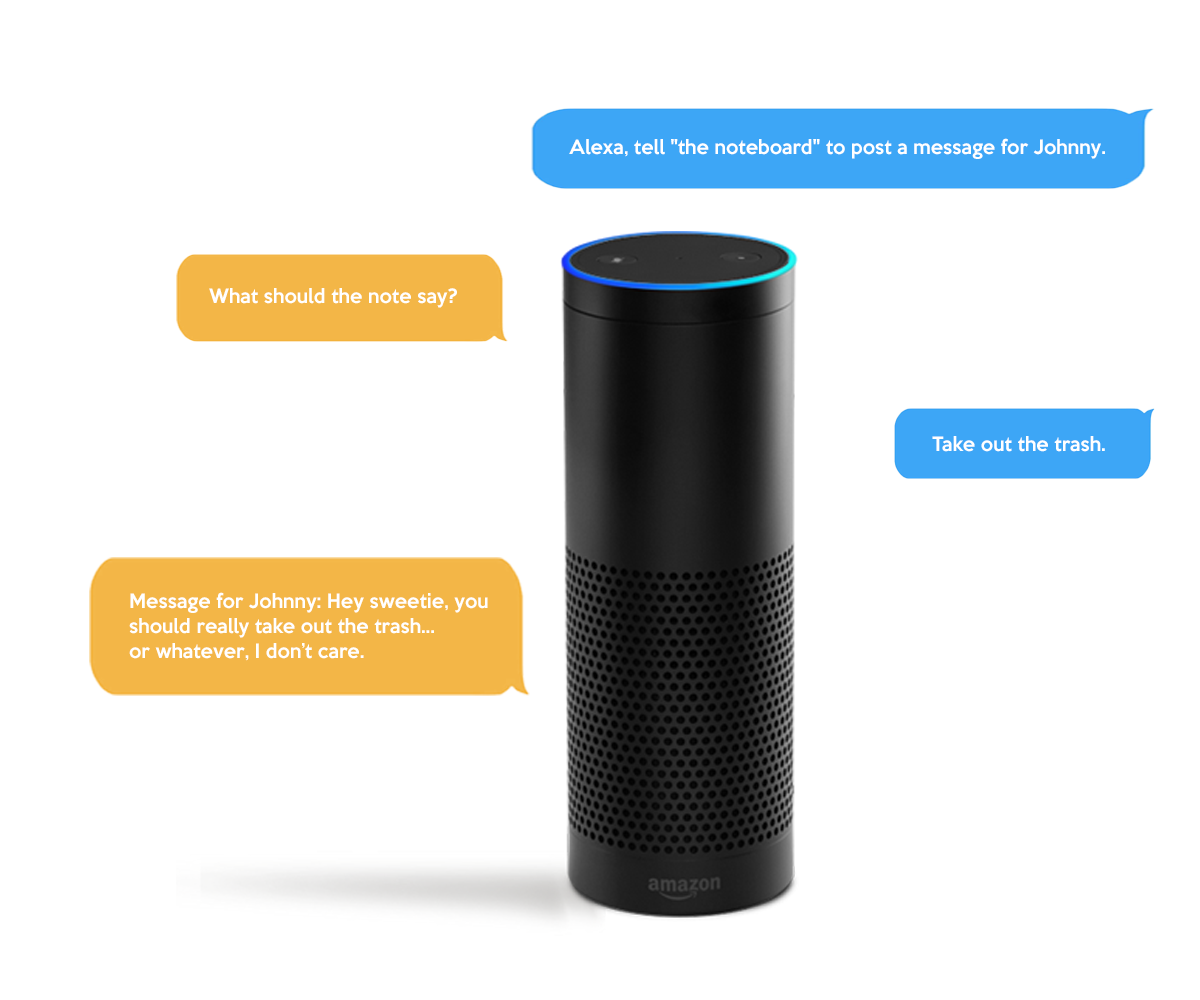
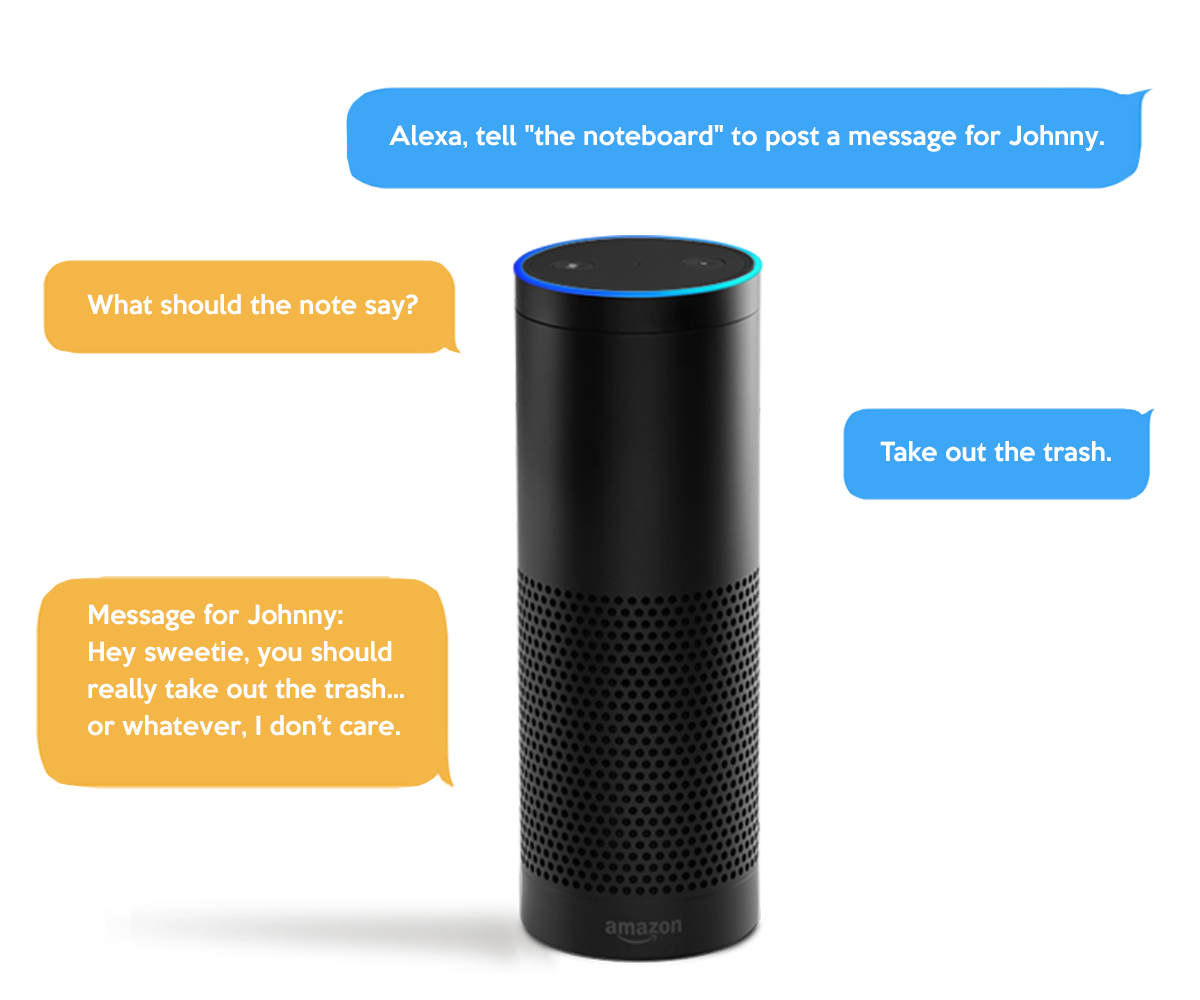
add bg to projects

Changed region(s): [[0.0308, 0.217, 0.9558, 0.961], [0.2775, 0.062, 0.9558, 0.186]]

diff --git a/index.html b/index.html
@@ -20,9 +20,7 @@
     <div class="countShow">
       <span id="countNum"></span>
     </div>
-    <h1>
-      <div id="title">VIVIENNE OOI</div>
-    </h1>
+    <h1 id="title">VIVIENNE OOI</h1>
     <a href="https://github.com/weivienne" target="_blank">
       <div class="fa fa-github"></div>
     </a>
@@ -37,7 +35,6 @@
     </a>
 
     <div class="textShow">
-      <!--       <span id="subheader">welcome to my portfolio</span> -->
       <span id="subheader">
       <div class='console-container'><span id='text'></span>
       <div class='console-underscore' id='console'>&#95;</div>
@@ -66,13 +63,13 @@
     <div id="modal2" class="overlay purpleBG">
       <div class="overlay-content">
         <p>projects</p>
-        <img src="files/fish-demo.png" alt="fish-demo.png">
+        <img src="files/fish-demo-bg.png" alt="fish-demo-bg.png">
         <p>Fish Out Of Water</p>
         </br>
-        <img src="files/soteria-demo.png" alt="soteria-demo.png">
+        <img src="files/soteria-demo-bg.png" alt="soteria-demo-bg.png">
         <p>Soteria</p>
         </br>
-        <img src="files/echo-demo.png" alt="echo-demo.png">
+        <img src="files/echo-demo-bg.png" alt="echo-demo-bg.png">
         <p>The Passive-Agressive Agressive NoteBoard</p>
         </br>
         <span class="close2 close">CLOSE</span>
